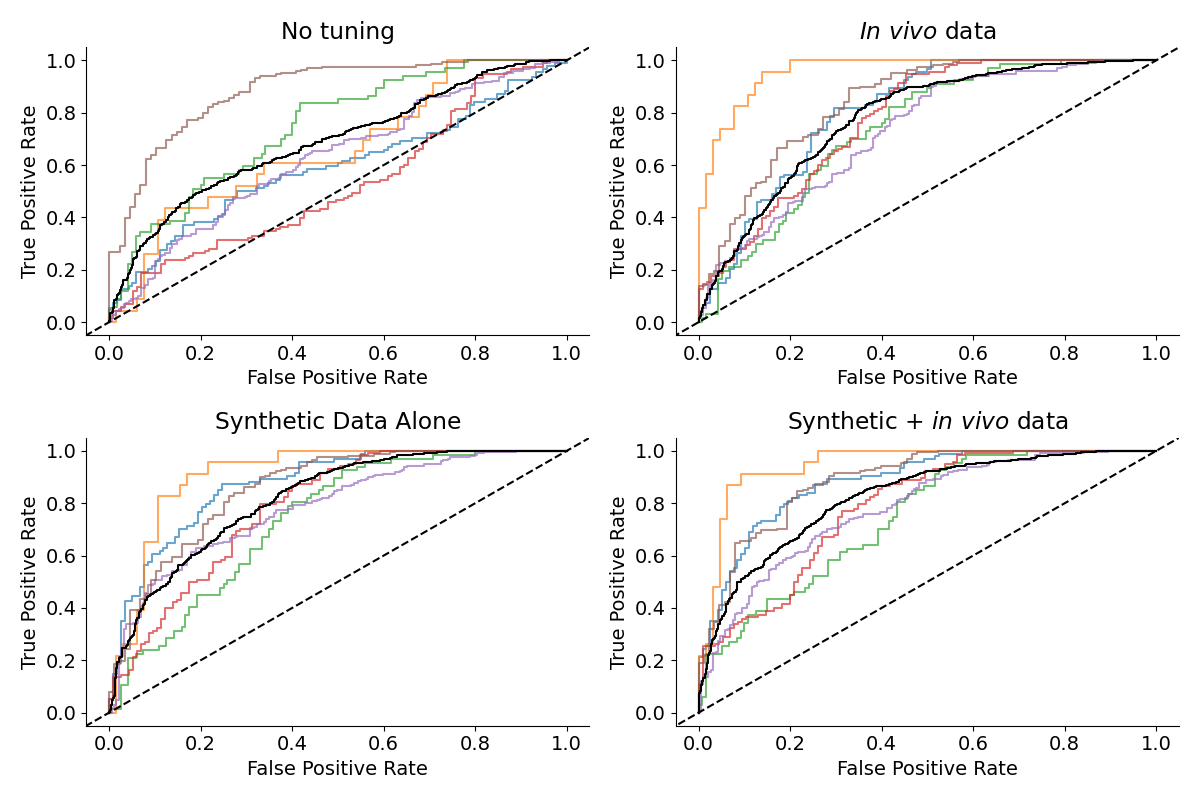
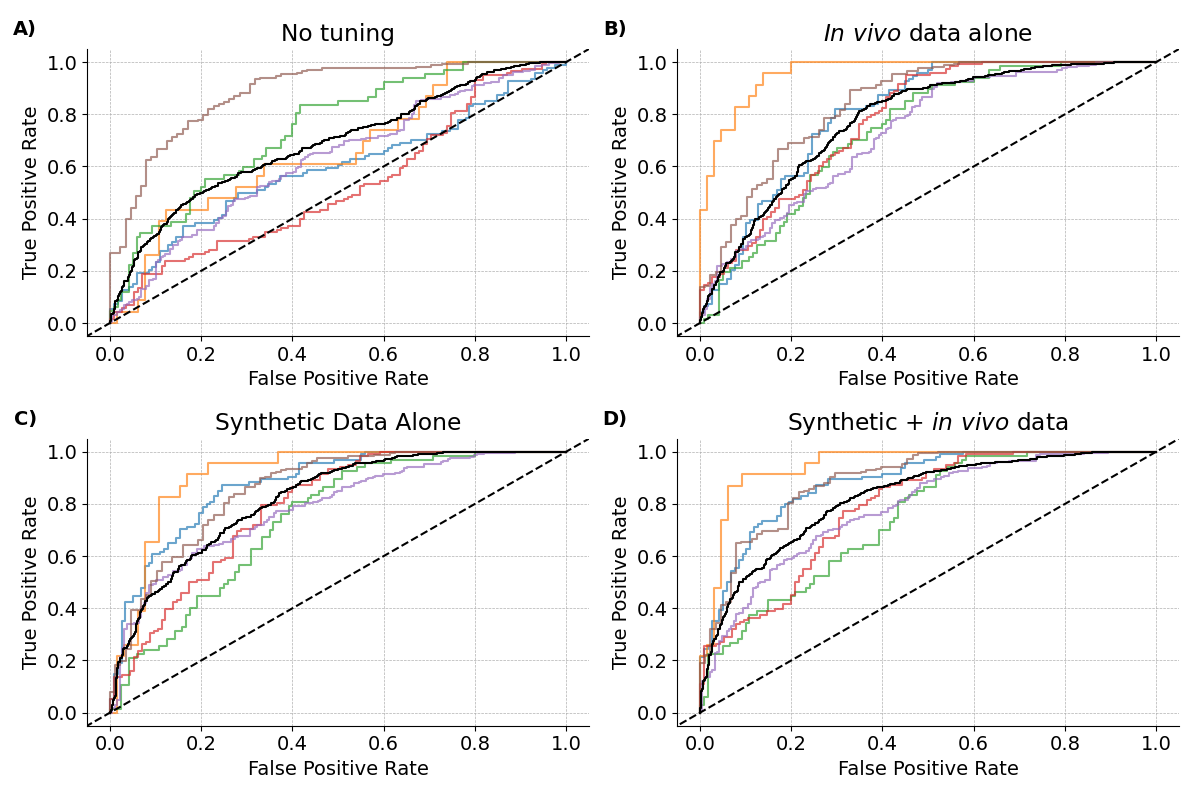
update

diff --git a/contributors/Danny/test_networks.py b/contributors/Danny/test_networks.py
@@ -165,18 +165,31 @@ def test_network(data, LOO_subjects, network_load_directory = None, Basic = Fals
         # ax_roc.scatter(operating_point_cum[0], operating_point_cum[1], color='r', s = 65)
         ax_roc.set_xlabel('False Positive Rate', fontsize=14)
         ax_roc.set_ylabel('True Positive Rate', fontsize=14)
+        ax_roc.grid(True, which='both', linestyle='--', linewidth=0.5)
         ax_roc.spines[['right', 'top']].set_visible(False)
+
         if i+1 == 0:
             ax_roc.legend({})
             ax_roc.legend(['S1', 'S2', 'S3', 'S4', 'S5', 'S6', 'Combined'])
         if i == 0:
             ax_roc.set_title('No tuning')
+            ax_roc.text(-0.1, 1.1, 'A)', transform=ax_roc.transAxes, fontsize=14, fontweight='bold', va='top',
+                        ha='right')
+
         elif i == 1:
-            ax_roc.set_title(r'$\it{In\ vivo}$ data')
+            ax_roc.set_title(r'$\it{In\ vivo}$ data alone')
+            ax_roc.text(-0.1, 1.1, 'B)', transform=ax_roc.transAxes, fontsize=14, fontweight='bold', va='top',
+                        ha='right')
+
         elif i == 2:
             ax_roc.set_title('Synthetic Data Alone')
+            ax_roc.text(-0.1, 1.1, 'C)', transform=ax_roc.transAxes, fontsize=14, fontweight='bold', va='top',
+                        ha='right')
+
         elif i == 3:
             ax_roc.set_title(r'Synthetic + $\it{in\ vivo}$ data')
+            ax_roc.text(-0.1, 1.1, 'D)', transform=ax_roc.transAxes, fontsize=14, fontweight='bold', va='top',
+                        ha='right')
 
     return statistics_50, statistics_th, ROC_statistics, ROC_aucs, fig
 
@@ -212,39 +225,39 @@ network_directories = [None,
     get_parent_path('data', subdirectory='Spike Ripples/silver/RippleNet_transfer_LOO_128_epochs_10000_SEs_binary')
 ]
 
-stats_50 = []
-stats_th = []
-stats_ROC_aucs = []
-
-for i in range(len(network_directories)):
-
-    variables = test_network(data, LOO_subjects, Basic = Basics[i], LOO = LOO[i], Priors = Priors[i], network_load_directory = network_directories[i])
-
-    mean_50 = np.mean(variables[0], axis = 0)
-    stdev_50 = np.std(variables[0], axis = 0)
-
-    mean_th = np.mean(variables[1], axis = 0)
-    stdev_th = np.std(variables[1], axis = 0)
-
-    stats_50.append([f"{mean:.2f} ({stdev:.2f})" for mean, stdev in zip(mean_50, stdev_50)])
-
-    stats_th.append([f"{mean:.2f} ({stdev:.2f})" for mean, stdev in zip(mean_th, stdev_th)])
-
-    stats_ROC_aucs.append(f"{np.mean(variables[3]):.2f} ({np.std(variables[3]):.2f})")
-
-def write_to_csv(filename, titles, running_means):
-    with open(filename, mode='w', newline='') as file:
-        writer = csv.writer(file)
-        for title, results in zip(titles, running_means):
-            writer.writerow([title] + results)
-
-# Write the running means to CSV files
-write_to_csv('stats_50.csv', network_titles, stats_50)
-write_to_csv('stats_th.csv', network_titles, stats_th)
-
-
-with open('ROC_stats.csv', mode='w', newline='') as file:
-    csv.writer(file).writerows([[element] for element in stats_ROC_aucs])
+# stats_50 = []
+# stats_th = []
+# stats_ROC_aucs = []
+#
+# for i in range(len(network_directories)):
+#
+#     variables = test_network(data, LOO_subjects, Basic = Basics[i], LOO = LOO[i], Priors = Priors[i], network_load_directory = network_directories[i])
+#
+#     mean_50 = np.mean(variables[0], axis = 0)
+#     stdev_50 = np.std(variables[0], axis = 0)
+#
+#     mean_th = np.mean(variables[1], axis = 0)
+#     stdev_th = np.std(variables[1], axis = 0)
+#
+#     stats_50.append([f"{mean:.2f} ({stdev:.2f})" for mean, stdev in zip(mean_50, stdev_50)])
+#
+#     stats_th.append([f"{mean:.2f} ({stdev:.2f})" for mean, stdev in zip(mean_th, stdev_th)])
+#
+#     stats_ROC_aucs.append(f"{np.mean(variables[3]):.2f} ({np.std(variables[3]):.2f})")
+#
+# def write_to_csv(filename, titles, running_means):
+#     with open(filename, mode='w', newline='') as file:
+#         writer = csv.writer(file)
+#         for title, results in zip(titles, running_means):
+#             writer.writerow([title] + results)
+#
+# # Write the running means to CSV files
+# write_to_csv('stats_50.csv', network_titles, stats_50)
+# write_to_csv('stats_th.csv', network_titles, stats_th)
+#
+#
+# with open('ROC_stats.csv', mode='w', newline='') as file:
+#     csv.writer(file).writerows([[element] for element in stats_ROC_aucs])
 
 
 #%%
